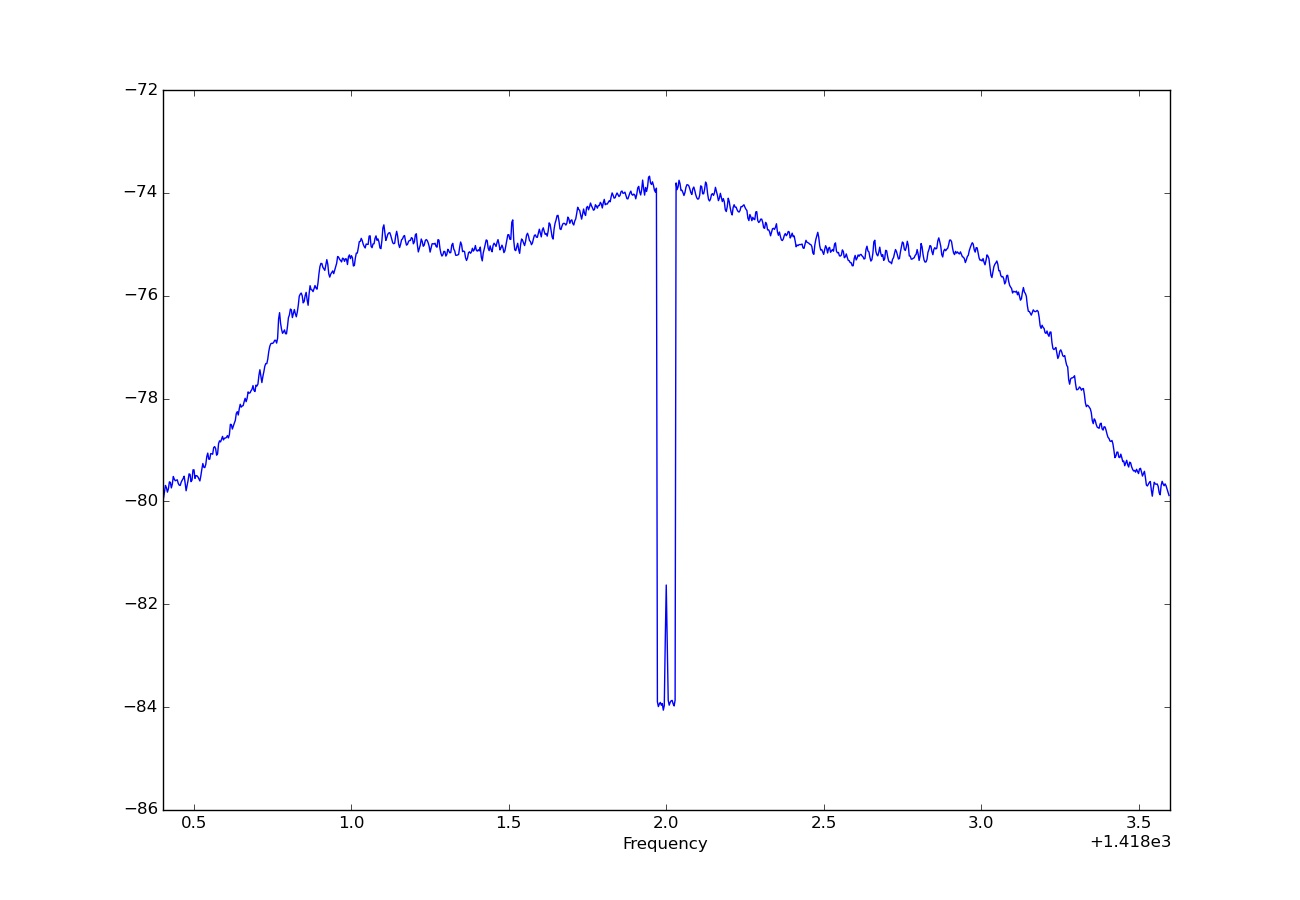
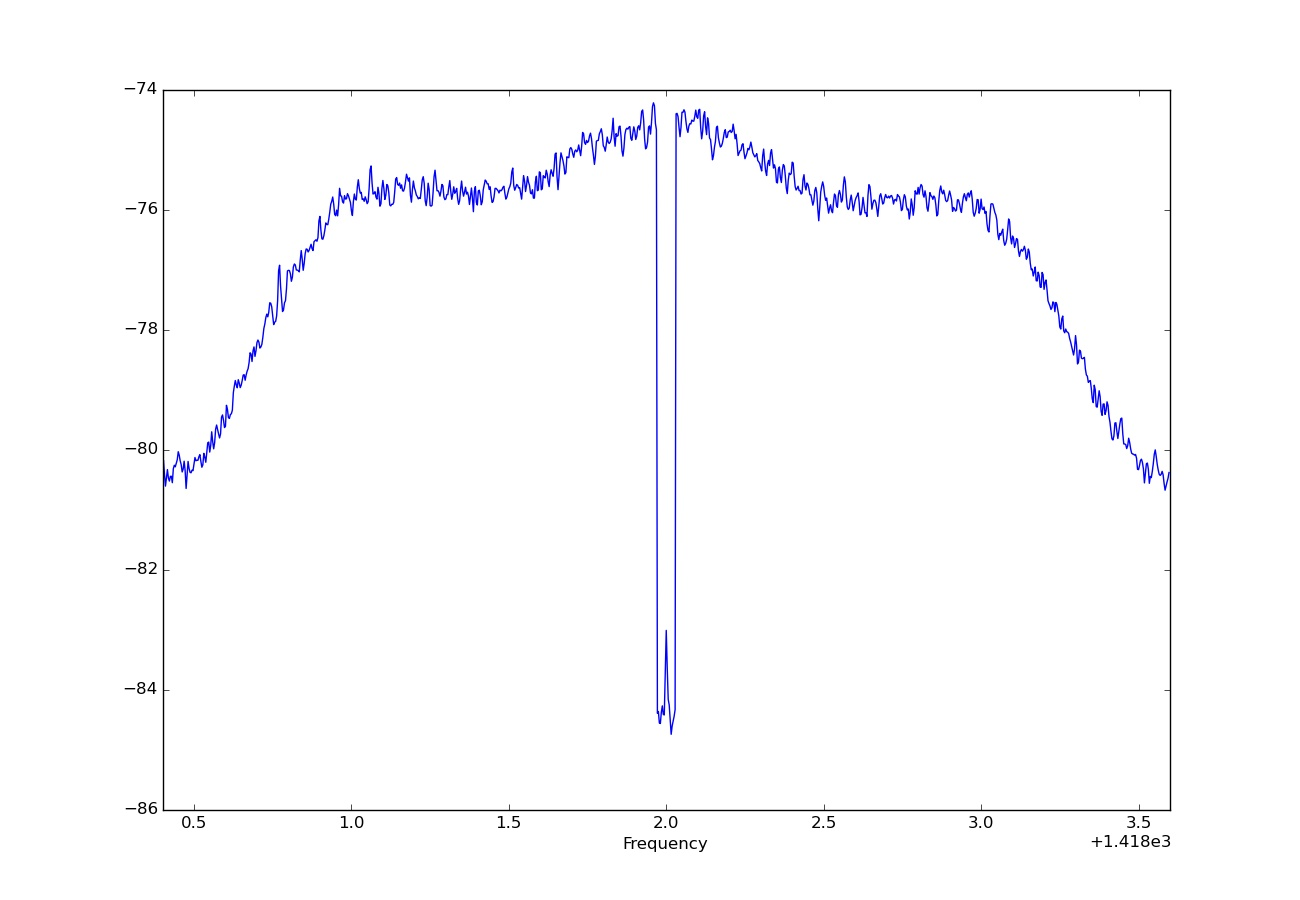
Another update

diff --git a/plotfft.py b/plotfft.py
@@ -1,0 +1,64 @@
+import matplotlib.pyplot as plt
+import numpy as np
+import time
+import sys
+import os
+import datetime
+from datetime import datetime
+
+###############################################################################
+# Configuration variables
+FFTSize=1024 #Number of FFT bins
+fc=1420e6 #Center frequency
+fs=3.2e6 #Sampling rate
+RBW = fs / FFTSize # Resolution bandwidth
+StartFreq = (fc - FFTSize / 2 * RBW)/1e6 # Start frequency FFT
+StopFreq = (fc + FFTSize / 2 * RBW)/1e6 # Start frequency FFT
+DataDir = '/media/michel/SETI/'
+###############################################################################
+# Functions
+def sorted_ls(path):
+    mtime = lambda f: os.stat(os.path.join(path, f)).st_mtime
+    return list(sorted(os.listdir(path), key=mtime))
+###############################################################################
+# Main
+
+fig = plt.figure()
+ax = fig.add_subplot(111)
+
+# Get last filename of day
+files = sorted_ls(DataDir+datetime.now().strftime("%Y/%Y%m%d"))
+DataFile = DataDir+datetime.now().strftime("%Y/%Y%m%d/")+files[-1]
+
+# some X and Y data
+x=np.zeros(FFTSize)
+print(StartFreq)
+for i in range(0,FFTSize):
+    x[i] = round(StartFreq*1e6 + i * RBW)/1e6 # in MHz
+os.system('tail -c '+str(FFTSize*4*2)+' '+DataFile+ ' > datatail.bin')
+y = np.fromfile('datatail.bin', dtype=float)
+li, = ax.plot(x, y)
+
+# draw and show it
+fig.canvas.draw()
+plt.grid(b=True, which='both', color='0.65',linestyle='-')
+plt.show(block=False)
+
+# loop to update the data
+while True:
+    try:
+        files = sorted_ls(DataDir+datetime.now().strftime("%Y/%Y%m%d"))
+        DataFile = DataDir+datetime.now().strftime("%Y/%Y%m%d/")+files[-1]
+
+        os.system('tail -c '+str(FFTSize*4*2)+' '+DataFile+ ' > datatail.bin')
+        y = np.fromfile('datatail.bin', dtype=float)
+
+        # set the new data        
+        li.set_ydata(y)
+        ax.relim()
+        ax.autoscale_view(True,True,True)
+        fig.canvas.draw()
+        
+        time.sleep(0.5)
+    except KeyboardInterrupt:
+        break

diff --git a/collect_gnu.py b/collect_gnu.py
@@ -27,7 +27,7 @@ class top_block(gr.top_block):
         ##################################################
         # Variables
         ##################################################
-        self.samp_rate = samp_rate = 3200000.0
+        self.samp_rate = samp_rate = 3200000
         self.fftsize = fftsize = 1024
 
         ##################################################
@@ -35,7 +35,7 @@ class top_block(gr.top_block):
         ##################################################
         self.osmosdr_source_0 = osmosdr.source( args="numchan=" + str(1) + " " + "" )
         self.osmosdr_source_0.set_sample_rate(samp_rate)
-        self.osmosdr_source_0.set_center_freq(1420000000.0, 0)
+        self.osmosdr_source_0.set_center_freq(1420000000, 0)
         self.osmosdr_source_0.set_freq_corr(0, 0)
         self.osmosdr_source_0.set_dc_offset_mode(0, 0)
         self.osmosdr_source_0.set_iq_balance_mode(0, 0)
